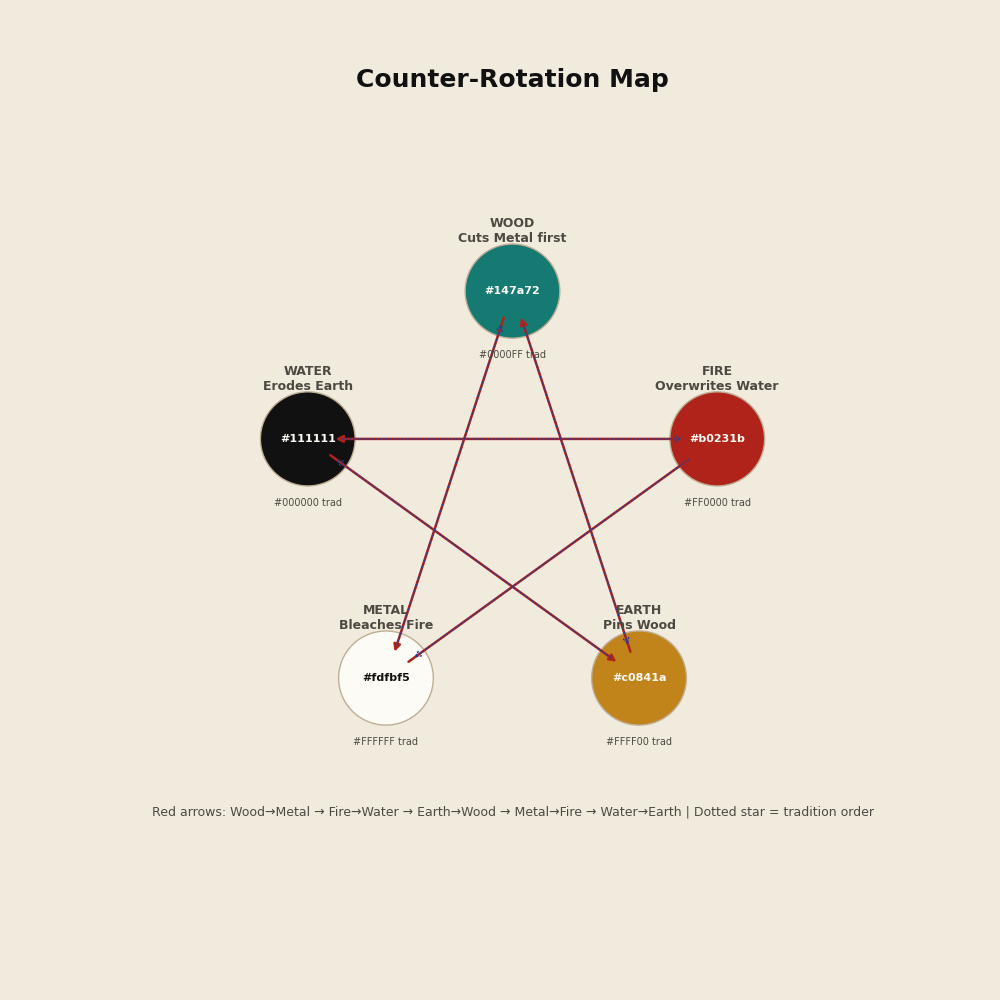
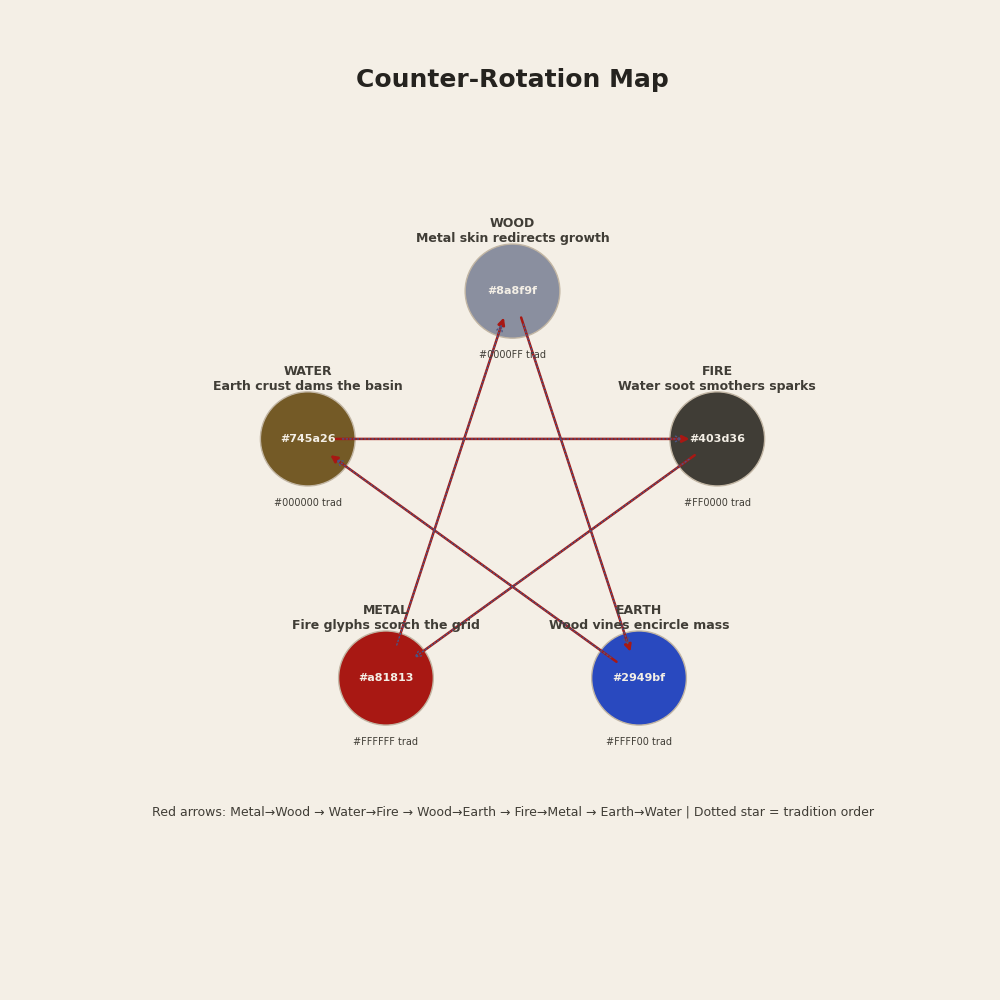
rebalance palette after seoulism contrast levels; regenerate previews
The previous pass desaturated too far and dropped syntax to ~5:1 /
comments to ~4:1. Mirror the dark seoulism role levels instead: keep
each accent's hue and near-full chroma, darken to ~6:1 on the paper
(ink ~12.5:1, comments ~5.2:1, delimiters ~4.5:1, gutter ~3.3:1), and
use mid-tone same-hue fills for search/pmenu/lightline.

Regenerate preview, visualizer, pentagon and code example images with
the new palette; also fix literal '\n' labels and overlapping title/
footer text in the diagram scripts.

diff --git a/preview.py b/preview.py
@@ -1,12 +1,12 @@
 import matplotlib.pyplot as plt
 import matplotlib.patches as patches
 
-PAPER = '#fdfbf5'
-PAPER_EDGE = '#f1ebdd'
-INK = '#111111'
-GRAPHITE = '#4c4943'
-DIVIDER = '#d8cbb7'
-ACCENT = '#b0231b'
+PAPER = '#e9e6df'
+PAPER_EDGE = '#f4efe6'
+INK = '#25231f'
+GRAPHITE = '#403d36'
+DIVIDER = '#d2c9bd'
+ACCENT = '#a81813'
 
 COUNTER_CHAIN = [
     {
@@ -26,21 +26,21 @@ COUNTER_CHAIN = [
     {
         'step': '03',
         'pair': 'WOOD -> EARTH',
-        'seoul': {'tag': 'Indigo Literal', 'hex': '#2b4cc2', 'element': 'Wood', 'logic': 'Data / Vines'},
+        'seoul': {'tag': 'Indigo Literal', 'hex': '#2949bf', 'element': 'Wood', 'logic': 'Data / Vines'},
         'trad': {'tag': 'Honey Bedrock', 'hex': '#c0841a', 'element': 'Earth', 'logic': 'Store / Weight'},
         'note': 'Wood-toned literals creep through the ochre bedrock so the storage layer has to absorb movement.'
     },
     {
         'step': '04',
         'pair': 'FIRE -> METAL',
-        'seoul': {'tag': 'Ritual Type', 'hex': '#b0231b', 'element': 'Fire', 'logic': 'Structure / Heat'},
+        'seoul': {'tag': 'Ritual Type', 'hex': '#a81813', 'element': 'Fire', 'logic': 'Structure / Heat'},
         'trad': {'tag': 'Paper Field', 'hex': PAPER, 'element': 'Metal', 'logic': 'Stage / Surface'},
         'note': 'Fire-bright types scar the metal grid, so the paper field has to recover after each declaration.'
     },
     {
         'step': '05',
         'pair': 'EARTH -> WATER',
-        'seoul': {'tag': 'Ochre Annotation', 'hex': '#d29d3f', 'element': 'Earth', 'logic': 'Context / Memory'},
+        'seoul': {'tag': 'Ochre Annotation', 'hex': '#745a26', 'element': 'Earth', 'logic': 'Context / Memory'},
         'trad': {'tag': 'Ink Basin', 'hex': '#111111', 'element': 'Water', 'logic': 'Void / Archive'},
         'note': 'Earthy annotations now cake over the ink basin so Water documentation has to seep upward.'
     },
@@ -66,13 +66,13 @@ def draw_seoulism_blueprint():
     ax.text(8, 129, 'Every role moved into its opposite seat; tradition is now the one being answered.',
             color=ACCENT, fontsize=10, style='italic')
 
-    row_height = 25
+    row_height = 24
     block_height = 10
     left_x = 10
     right_x = 58
 
     for idx, pair in enumerate(COUNTER_CHAIN):
-        y = 120 - idx * row_height
+        y = 108 - idx * row_height
         pair_label_y = y + block_height + 3
 
         ax.text(left_x, pair_label_y,
@@ -88,7 +88,7 @@ def draw_seoulism_blueprint():
                                             edgecolor=DIVIDER, linewidth=1.0)
         ax.add_patch(seoul_rect)
         ax.text(left_x + 11, y + 6.5,
-                f"{pair['seoul']['tag']}\\n{pair['seoul']['hex']}",
+                f"{pair['seoul']['tag']}\n{pair['seoul']['hex']}",
                 color=_contrast_color(pair['seoul']['hex']),
                 fontsize=8, ha='center', va='center', weight='bold')
         ax.text(left_x + 11, y + 2.2,
@@ -102,7 +102,7 @@ def draw_seoulism_blueprint():
                                            edgecolor=DIVIDER, linewidth=1.0)
         ax.add_patch(trad_rect)
         ax.text(right_x + 11, y + 6.5,
-                f"{pair['trad']['tag']}\\n{pair['trad']['hex']}",
+                f"{pair['trad']['tag']}\n{pair['trad']['hex']}",
                 color=_contrast_color(pair['trad']['hex']),
                 fontsize=8, ha='center', va='center', weight='bold')
         ax.text(right_x + 11, y + 2.2,
@@ -114,12 +114,12 @@ def draw_seoulism_blueprint():
                     xytext=(left_x + 22 + 2, y + block_height / 2),
                     arrowprops=dict(arrowstyle='->', color=ACCENT,
                                     lw=1.4, mutation_scale=18))
-        ax.text((left_x + right_x) / 2 + 5, y + block_height / 2 + 2,
+        ax.text((left_x + 22 + right_x) / 2, y + block_height / 2 + 2,
                 'Swapped seat ➜ displaced anchor', color=GRAPHITE, fontsize=8, ha='center')
 
         ax.plot([left_x, 90], [y - 4, y - 4], color=DIVIDER, linewidth=0.6)
 
-    ax.text(8, 10, 'Order: Metal→Wood → Water→Fire → Wood→Earth → Fire→Metal → Earth→Water',
+    ax.text(8, 1.5, 'Order: Metal→Wood → Water→Fire → Wood→Earth → Fire→Metal → Earth→Water',
             color=GRAPHITE, fontsize=8.5)
 
     plt.tight_layout()

diff --git a/visualizer.py b/visualizer.py
@@ -1,12 +1,12 @@
 import matplotlib.pyplot as plt
 import matplotlib.patches as patches
 
-PAPER = '#fdfbf5'
-EDGE = '#f1ebdd'
-INK = '#111111'
-GRAPHITE = '#4c4943'
-DIVIDER = '#cdbb9b'
-ACCENT = '#b0231b'
+PAPER = '#e9e6df'
+EDGE = '#f4efe6'
+INK = '#25231f'
+GRAPHITE = '#403d36'
+DIVIDER = '#d2c9bd'
+ACCENT = '#a81813'
 
 COUNTER_CHAIN = [
     {
@@ -26,21 +26,21 @@ COUNTER_CHAIN = [
     {
         'step': '03',
         'name': 'WOOD -> EARTH',
-        'seoul': {'label': 'Indigo Literal', 'hex': '#2b4cc2', 'element': 'Wood'},
+        'seoul': {'label': 'Indigo Literal', 'hex': '#2949bf', 'element': 'Wood'},
         'trad': {'label': 'Ochre Archive', 'hex': '#c0841a', 'element': 'Earth'},
         'logic': 'Indigo literals snake through the ochre archive so storage has to flex around the vines.'
     },
     {
         'step': '04',
         'name': 'FIRE -> METAL',
-        'seoul': {'label': 'Ritual Type', 'hex': '#b0231b', 'element': 'Fire'},
+        'seoul': {'label': 'Ritual Type', 'hex': '#a81813', 'element': 'Fire'},
         'trad': {'label': 'Paper Field', 'hex': PAPER, 'element': 'Metal'},
         'logic': 'Fire-soaked type edges scar the paper field so the metal grid must heal every time.'
     },
     {
         'step': '05',
         'name': 'EARTH -> WATER',
-        'seoul': {'label': 'Ochre Annotation', 'hex': '#d29d3f', 'element': 'Earth'},
+        'seoul': {'label': 'Ochre Annotation', 'hex': '#745a26', 'element': 'Earth'},
         'trad': {'label': 'Ink Basin', 'hex': '#111111', 'element': 'Water'},
         'logic': 'Earthy annotations crust over the ink basin so Water commentary seeps up slowly.'
     }
@@ -83,7 +83,7 @@ def draw_seoulism_chain():
     row_gap = 25
 
     for idx, pair in enumerate(COUNTER_CHAIN):
-        y = 115 - idx * row_gap
+        y = 111 - idx * row_gap
         ax.text(left_x, y + 9.5, pair['name'], color=ACCENT,
                 fontsize=11, weight='bold')
         ax.text(left_x + 32, y + 9.5, pair['step'], color=GRAPHITE,
@@ -91,8 +91,8 @@ def draw_seoulism_chain():
         ax.text(left_x, y - 1.5, pair['logic'], color=GRAPHITE,
                 fontsize=9)
 
-        _draw_block(ax, left_x, y, f"{pair['seoul']['label']}\\n{pair['seoul']['element']}", pair['seoul']['hex'])
-        _draw_block(ax, right_x, y, f"{pair['trad']['label']}\\n{pair['trad']['element']}", pair['trad']['hex'])
+        _draw_block(ax, left_x, y, f"{pair['seoul']['label']}\n{pair['seoul']['element']}", pair['seoul']['hex'])
+        _draw_block(ax, right_x, y, f"{pair['trad']['label']}\n{pair['trad']['element']}", pair['trad']['hex'])
 
         ax.annotate('', xy=(right_x - 2, y + 4), xytext=(left_x + 18 + 2, y + 4),
                     arrowprops=dict(arrowstyle='-|>', color=ACCENT,

diff --git a/pentagon.py b/pentagon.py
@@ -5,20 +5,20 @@ import matplotlib as mpl
 mpl.rcParams['font.family'] = 'Noto Sans CJK KR'
 mpl.rcParams['axes.unicode_minus'] = False # To prevent minus signs from breaking with Korean fonts
 
-PAPER = '#fdfbf5'
-EDGE = '#f1ebdd'
-INK = '#111111'
-GRAPHITE = '#4c4943'
-PAIR_ARROW = '#b0231b'
-STAR_ARROW = '#2f3b8f'
-NODE_OUTLINE = '#bfae95'
+PAPER = '#e9e6df'
+EDGE = '#f4efe6'
+INK = '#25231f'
+GRAPHITE = '#403d36'
+PAIR_ARROW = '#a81813'
+STAR_ARROW = '#4a5584'
+NODE_OUTLINE = '#c2b6a4'
 
 ELEMENTS = [
     ('WOOD',  '#0000FF', '#8a8f9f', 'Metal skin redirects growth'),
     ('FIRE',  '#FF0000', GRAPHITE, 'Water soot smothers sparks'),
-    ('EARTH', '#FFFF00', '#2b4cc2', 'Wood vines encircle mass'),
-    ('METAL', '#FFFFFF', '#b0231b', 'Fire glyphs scorch the grid'),
-    ('WATER', '#000000', '#d29d3f', 'Earth crust dams the basin'),
+    ('EARTH', '#FFFF00', '#2949bf', 'Wood vines encircle mass'),
+    ('METAL', '#FFFFFF', '#a81813', 'Fire glyphs scorch the grid'),
+    ('WATER', '#000000', '#745a26', 'Earth crust dams the basin'),
 ]
 
 COUNTER_PAIRS = [(3, 0), (4, 1), (0, 2), (1, 3), (2, 4)]
@@ -29,7 +29,7 @@ def _contrast(color: str) -> str:
     g = int(color[3:5], 16)
     b = int(color[5:7], 16)
     brightness = 0.2126 * r + 0.7152 * g + 0.0722 * b
-    return INK if brightness > 160 else '#fdfbf5'
+    return INK if brightness > 160 else '#f4efe6'
 
 
 def draw_systemic_divergence():

diff --git a/README.md b/README.md
@@ -32,11 +32,11 @@ Seoulism originally staged the code inside pine-ink darkness. The new build reve
 
 ### White paper, black ink
 
-The canvas uses `#e9e6df`, a slight-warm hanji tone. The default text is `#302e29`, a softened pine soot ink (~11:1 contrast instead of near-pure black, to reduce glare and halation). Comments drift into desaturated ochre (`#7e6f54`, ~4:1) so the code line always starts as ink on paper.
+The canvas uses `#e9e6df`, a slight-warm hanji tone. The default text is `#25231f`, a softened pine soot ink (~12.5:1 contrast instead of near-pure black, to reduce halation). Comments drift into ochre (`#745a26`, ~5.2:1) so the code line always starts as ink on paper.
 
 ### Ergonomic tuning
 
-Every accent keeps its original hue (measured in OKLCH), but chroma is lowered and lightness equalized so syntax colors sit around 5:1 against the paper. Filled highlights (search, popup selection, todo, lightline mode blocks) use pale tints of the same hues with ink text instead of solid saturated blocks.
+Contrast levels mirror the dark seoulism theme. Every accent keeps its original hue (measured in OKLCH) and nearly full saturation, but is darkened so syntax colors sit around 6:1 against the paper; glare came from bright accents with too little contrast, not from color itself. Filled highlights (search, popup selection, todo, lightline mode blocks) use mid-tone fills of the same hues with ink text.
 
 ### 상극: reversing the chain
 
